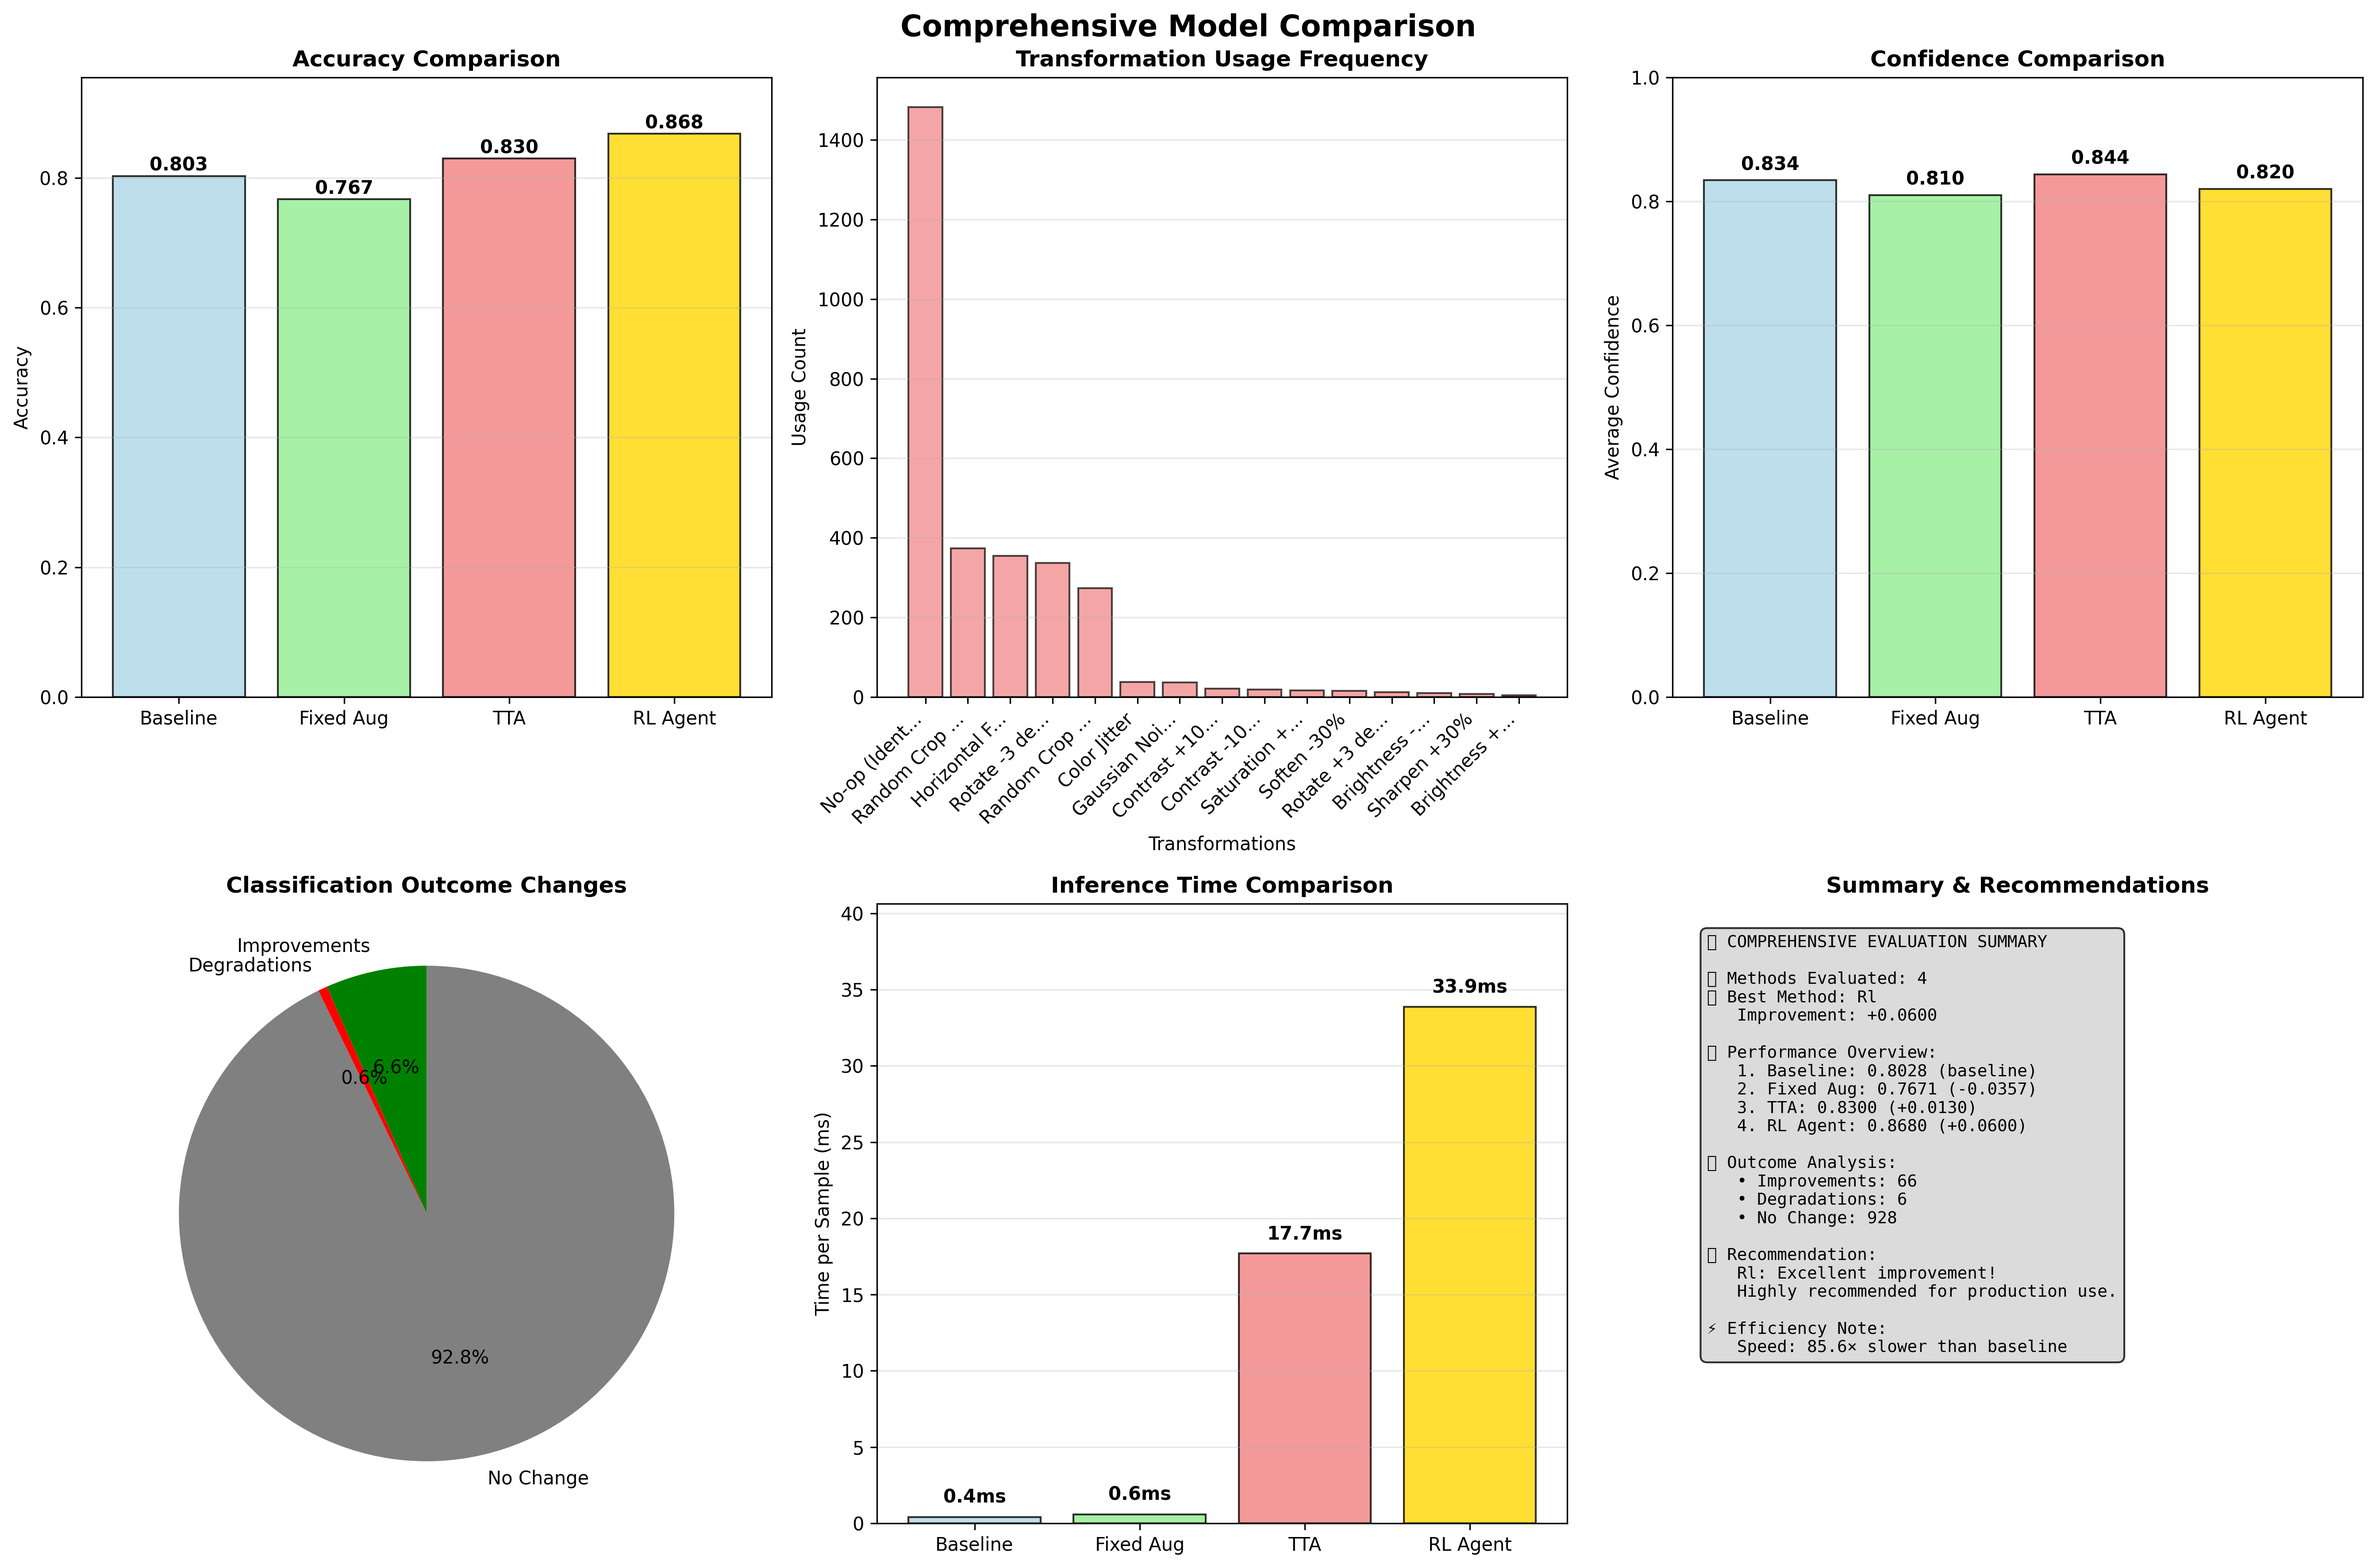
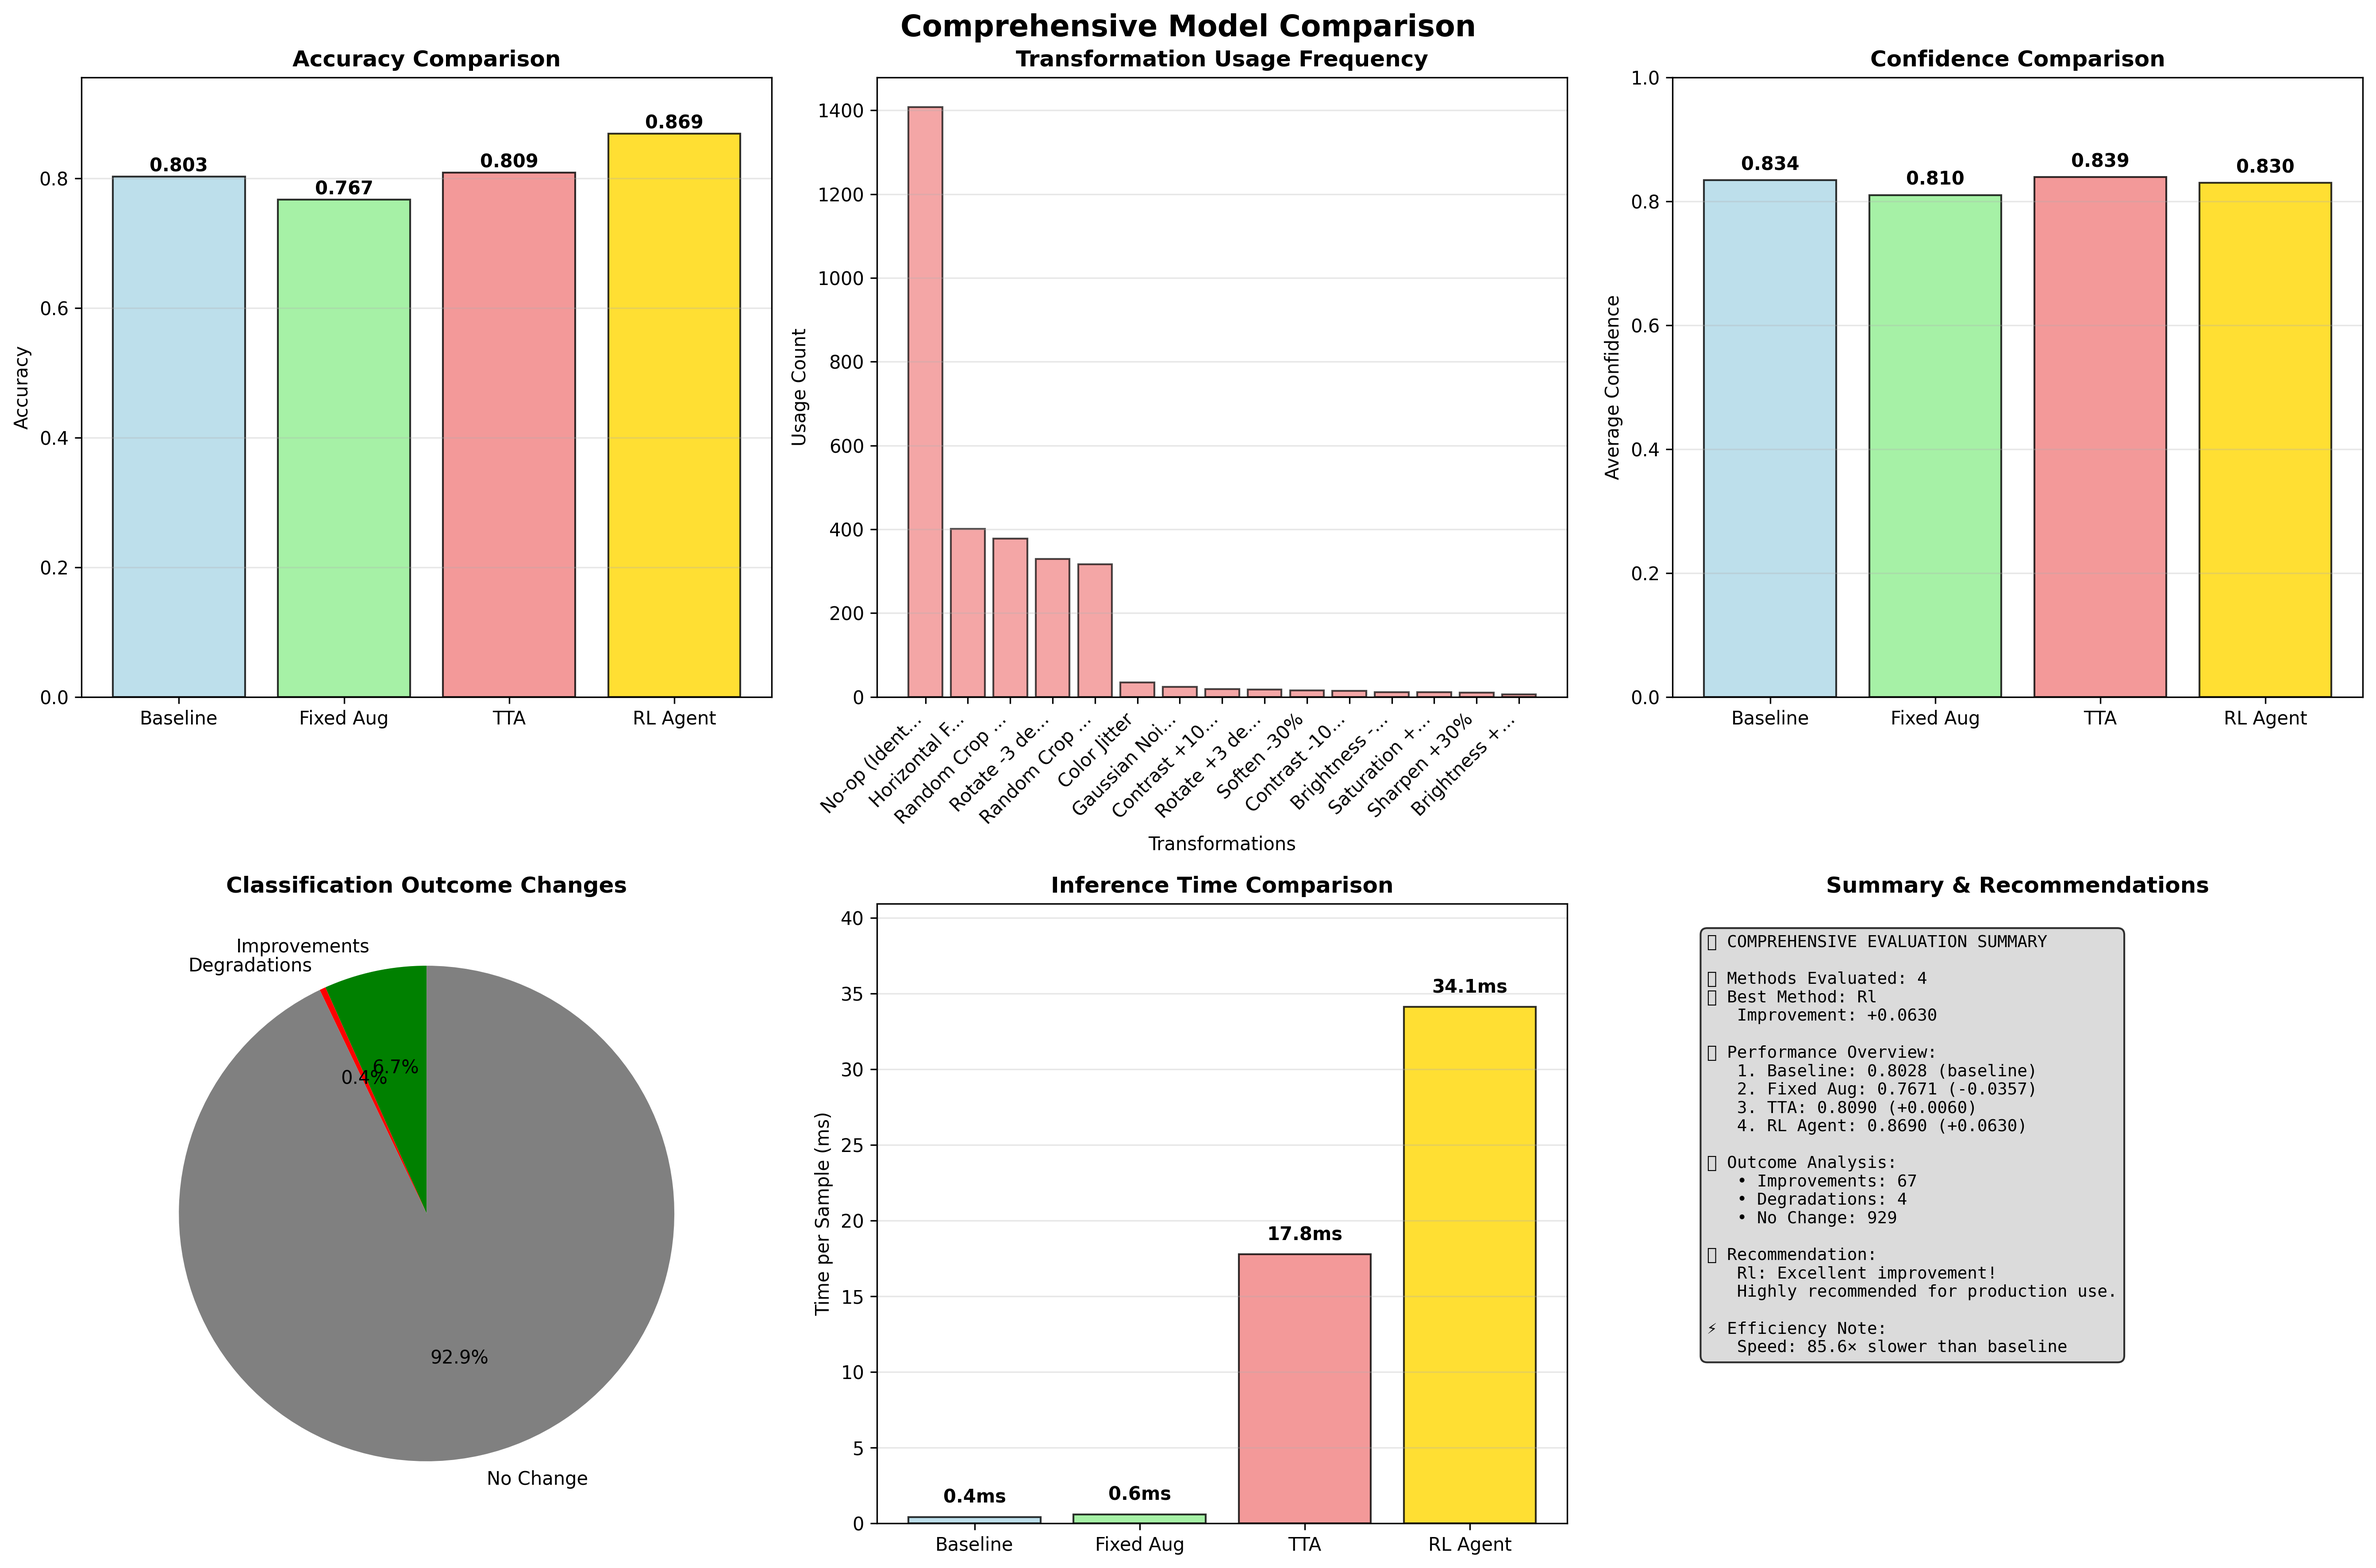
fix import errors

diff --git a/scripts/fixed_augmentation_evaluation.py b/scripts/fixed_augmentation_evaluation.py
@@ -3,7 +3,7 @@
 import torch
 from tqdm import tqdm
 from sklearn.metrics import accuracy_score, f1_score, confusion_matrix
-from torchvision import src.environment.transforms as transforms
+from torchvision import transforms
 from torch.utils.data import DataLoader
 import torchvision # Per CIFAR10 dataset
 from src.models.vgg import VGG

diff --git a/classifier/main.py b/classifier/main.py
@@ -14,6 +14,7 @@ import argparse
 # Assuming 'models' is a directory in the same path containing model definitions
 # e.g., models/VGG.py, models/ResNet.py etc.
 from models import *
+from src.models.vgg import VGG
 from src.utils.utils import progress_bar
 
 
